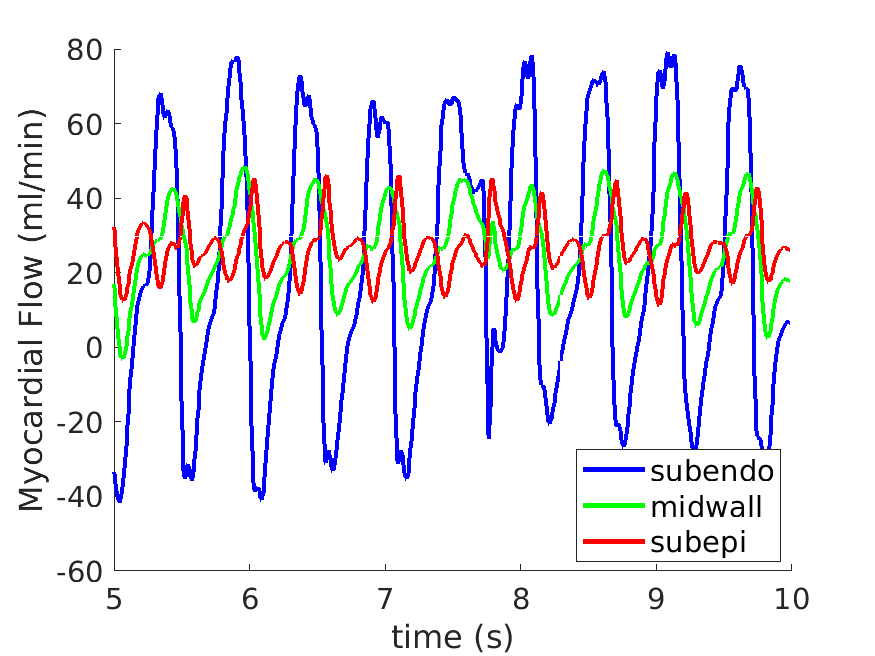
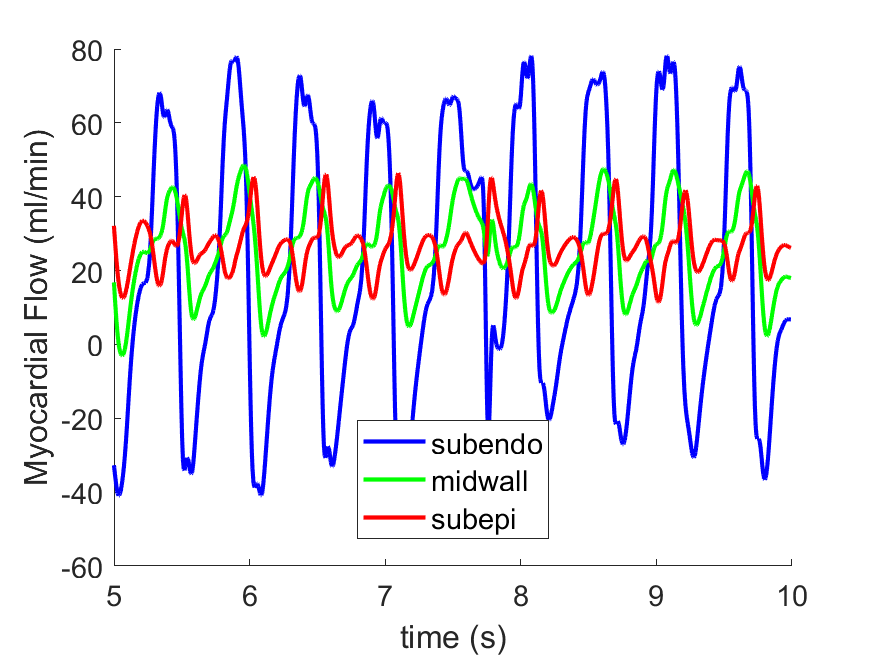
Added ENDOMID soft constraint to the objective function.

diff --git a/ConsciousPig7params/ExerciseModelObjFun.m b/ConsciousPig7params/ExerciseModelObjFun.m
@@ -48,10 +48,12 @@ while err>1e-3 && c<100
 end
 QPAS = interp1(Case.Results.t,   Case.Results.Q_PA, Case.t);
 ENDOEPI = Case.Results.ENDOEPI;
+ENDOMID = Case.Results.ENDOMID;
 
 r = 1./Case.Qexp(Case.t>2).* (QPAS(Case.t>2)' - Case.Qexp(Case.t>2))*1/(sqrt(length(Case.Qexp(Case.t>2))));
 E1 = r'*r;
 E2 = abs(ENDOEPI - 0.95);
-obj = E1 + E2;
+E3 = abs(ENDOMID - 0.975);
+obj = E1 + E2 + 0.5*E3;
 
 return;

diff --git a/ConsciousPig7params/ExerciseModelParamEst.m b/ConsciousPig7params/ExerciseModelParamEst.m
@@ -110,9 +110,9 @@ while err>1e-3 && c<100
     Exercise =   Calculations_Exercise(Exercise, 'Exercise');
        
     err = abs(QPA - Exercise.QPA);
-    QPA = Exercise.QPA;
+    QPA = Exercise.QPA
     
-    c = c+1;
+    c = c+1
     
 end
 

diff --git a/SRC_RepVessel/PerfusionModel.m b/SRC_RepVessel/PerfusionModel.m
@@ -25,6 +25,7 @@ Qepi = sum(Results.Q11(t_idx).*Dt(t_idx(2:end)))/(2*Case.T);
 
 
 Results.ENDOEPI = Qendo/Qepi;
+Results.ENDOMID = Qendo/Qmid;
 
 if flg==1
     
